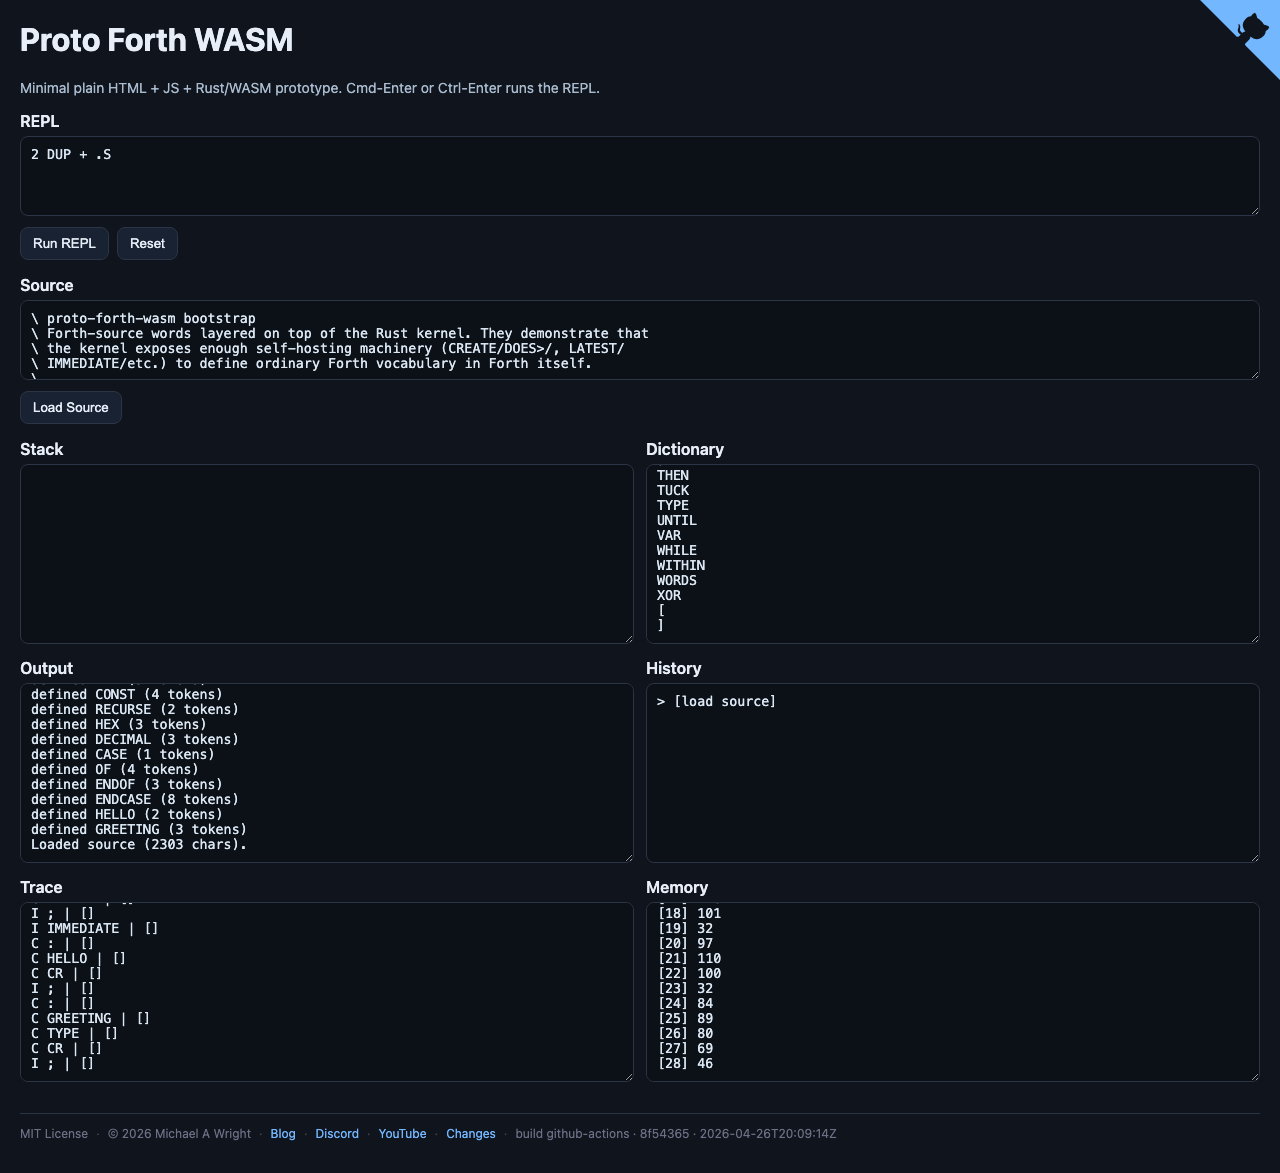
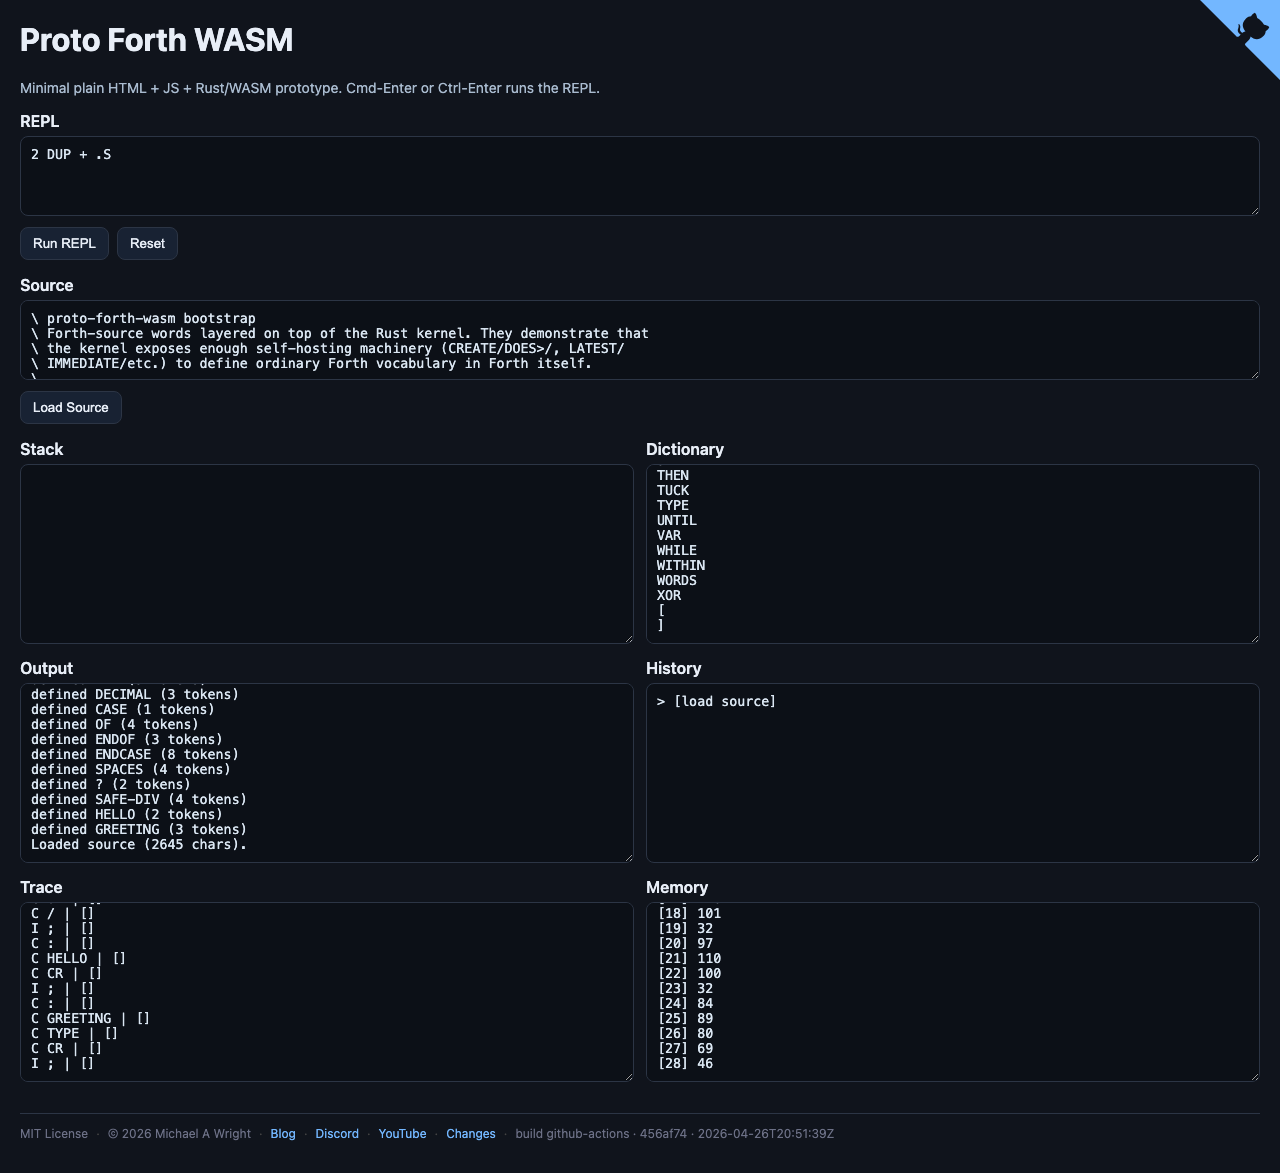
Add EXIT primitive; refresh screenshot
EXIT pops the current colon-definition frame, returning early without
the full stack unwind that ABORT does. Implementation: a new
Machine.exiting flag set by prim_exit, checked in run_user's loop
after every exec_op_vm — when set, pop the top frame, emit its
return_label trace if any, clear the flag, and continue. Comparable
to ABORT's aborting flag but with one-frame instead of full-drain
semantics.

eval_repl / load_source / reset clear the flag so a top-level EXIT
(no surrounding user word) doesn't leak into the next call.

Try:

  : GREET ." Hi" CR EXIT ." not seen" CR ;
  GREET                       \\ -> Hi  ("not seen" never fires)

  : COUNTING 10 0 DO I . I 5 = IF EXIT THEN LOOP ;
  COUNTING                    \\ -> 0 1 2 3 4 5 then returns

Screenshot also refreshed to capture the new ABORT/ABORT" banner from
456af74.

Changed region(s): [[0.0625, 0.5831, 0.1875, 0.7059], [0.5, 0.9514, 0.6562, 0.9821], [0.0312, 0.7673, 0.0938, 0.798]]

diff --git a/src/lib.rs b/src/lib.rs
@@ -70,6 +70,7 @@ enum PrimitiveId {
     Postpone,
     Type,
     Abort,
+    Exit,
 }
 
 #[derive(Clone, Debug)]
@@ -154,6 +155,7 @@ pub struct Machine {
     pending_does: Option<Vec<Op>>,
     anon_counter: u32,
     aborting: bool,
+    exiting: bool,
 }
 
 #[wasm_bindgen]
@@ -167,7 +169,7 @@ impl Machine {
             xt_table: Vec::new(),
             output: vec![
                 "Machine created.".to_string(),
-                "Primitives: DUP SWAP DROP OVER ROT + - * / MOD /MOD */MOD = < > AND OR XOR INVERT LSHIFT RSHIFT . .S CLEAR >R R> R@ @ ! +! WORDS CR EMIT SPACE I J ALLOT EXECUTE HERE , COMPILE, LATEST IMMEDIATE CREATE BASE TYPE ABORT".to_string(),
+                "Primitives: DUP SWAP DROP OVER ROT + - * / MOD /MOD */MOD = < > AND OR XOR INVERT LSHIFT RSHIFT . .S CLEAR >R R> R@ @ ! +! WORDS CR EMIT SPACE I J ALLOT EXECUTE HERE , COMPILE, LATEST IMMEDIATE CREATE BASE TYPE ABORT EXIT".to_string(),
                 "Compile: : ; :NONAME IF ELSE THEN BEGIN UNTIL WHILE REPEAT DO LOOP +LOOP LEAVE [ ] LITERAL DOES> POSTPONE .\" S\" ABORT\"".to_string(),
                 "Interactive: SEE <word> | VARIABLE <name> | <val> CONSTANT <name> | ' <word>".to_string(),
             ],
@@ -183,6 +185,7 @@ impl Machine {
             pending_does: None,
             anon_counter: 0,
             aborting: false,
+            exiting: false,
         };
         m.install_primitives();
         m
@@ -197,6 +200,7 @@ impl Machine {
         self.pending_does = None;
         self.output_line.clear();
         self.aborting = false;
+        self.exiting = false;
         self.output.push("VM reset.".to_string());
         self.history.push("--- reset ---".to_string());
         self.trace.push("--- reset ---".to_string());
@@ -212,6 +216,7 @@ impl Machine {
         self.run_tokens(line);
         self.flush_output_line();
         self.aborting = false;
+        self.exiting = false;
     }
 
     pub fn load_source(&mut self, src: &str) {
@@ -228,6 +233,7 @@ impl Machine {
                 .push(format!("Loaded source ({} chars).", src.len()));
         }
         self.aborting = false;
+        self.exiting = false;
     }
 
     pub fn get_stack_text(&self) -> String {
@@ -560,6 +566,7 @@ impl Machine {
             ("CREATE", PrimitiveId::Create),
             ("TYPE", PrimitiveId::Type),
             ("ABORT", PrimitiveId::Abort),
+            ("EXIT", PrimitiveId::Exit),
         ];
         for (name, id) in entries {
             self.define_word((*name).to_string(), Word::Primitive(*id));
@@ -1007,6 +1014,14 @@ impl Machine {
                 }
                 Some(op) => self.exec_op_vm(&op, &mut frames),
             }
+            if self.exiting {
+                self.exiting = false;
+                if let Some(popped) = frames.pop() {
+                    if let Some(label) = popped.return_label {
+                        self.emit_trace(&label);
+                    }
+                }
+            }
         }
     }
 
@@ -1265,6 +1280,7 @@ impl Machine {
             PrimitiveId::Postpone => self.prim_postpone(),
             PrimitiveId::Type => self.prim_type(),
             PrimitiveId::Abort => self.do_abort(),
+            PrimitiveId::Exit => self.exiting = true,
             PrimitiveId::Dot => self.prim_dot(),
             PrimitiveId::DotS => self.prim_dot_s(),
             PrimitiveId::Clear => self.prim_clear(),

diff --git a/CHANGES.md b/CHANGES.md
@@ -48,6 +48,11 @@
 
 ### Language features
 
+- `EXIT`: early-return primitive. Sets `Machine.exiting`; the `run_user`
+  loop pops the current frame at the next iteration boundary, so a word
+  can return early without unwinding the whole stack the way `ABORT`
+  does. Cleared by `eval_repl` / `load_source` / `reset` so a stale
+  flag never leaks across invocations
 - `ABORT` and `ABORT"`: error-unwind primitives. New `Machine.aborting`
   flag is checked at every iteration of `run_user`'s VM loop and
   `run_tokens`' token loop; both unwind cleanly when set. `ABORT` clears

diff --git a/README.md b/README.md
@@ -4,7 +4,7 @@ Minimal plain HTML + JS + Rust/WASM prototype for a proto-Forth workbench.
 
 **Live demo:** <https://sw-vibe-coding.github.io/sw-fth-wasm/>
 
-![screenshot](images/screenshot.png?ts=1777236250349)
+![screenshot](images/screenshot.png?ts=1777236915024)
 
 ## What it does
 
